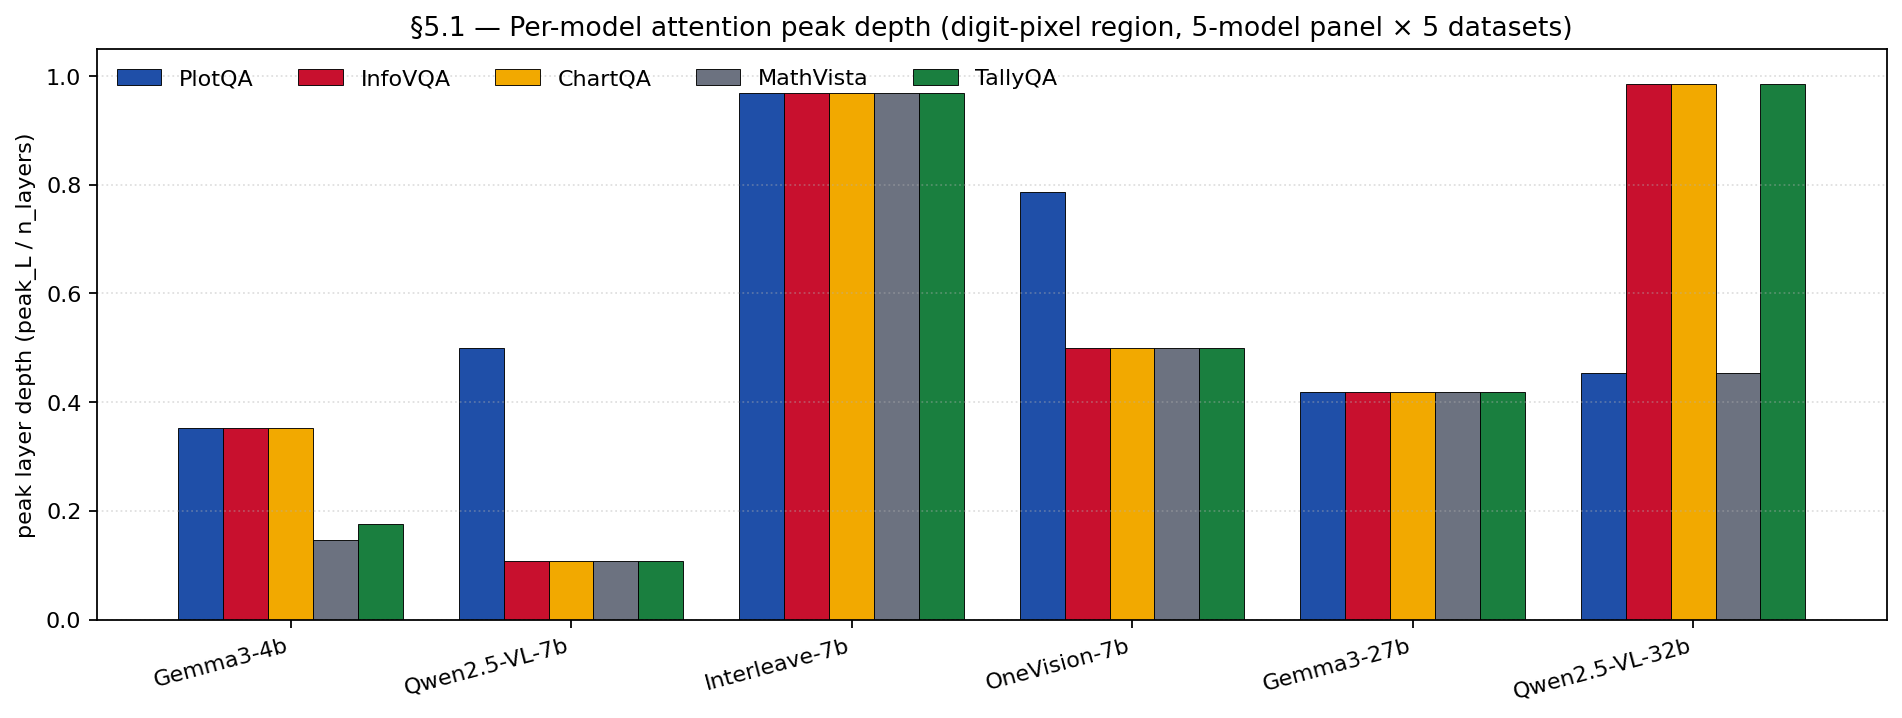
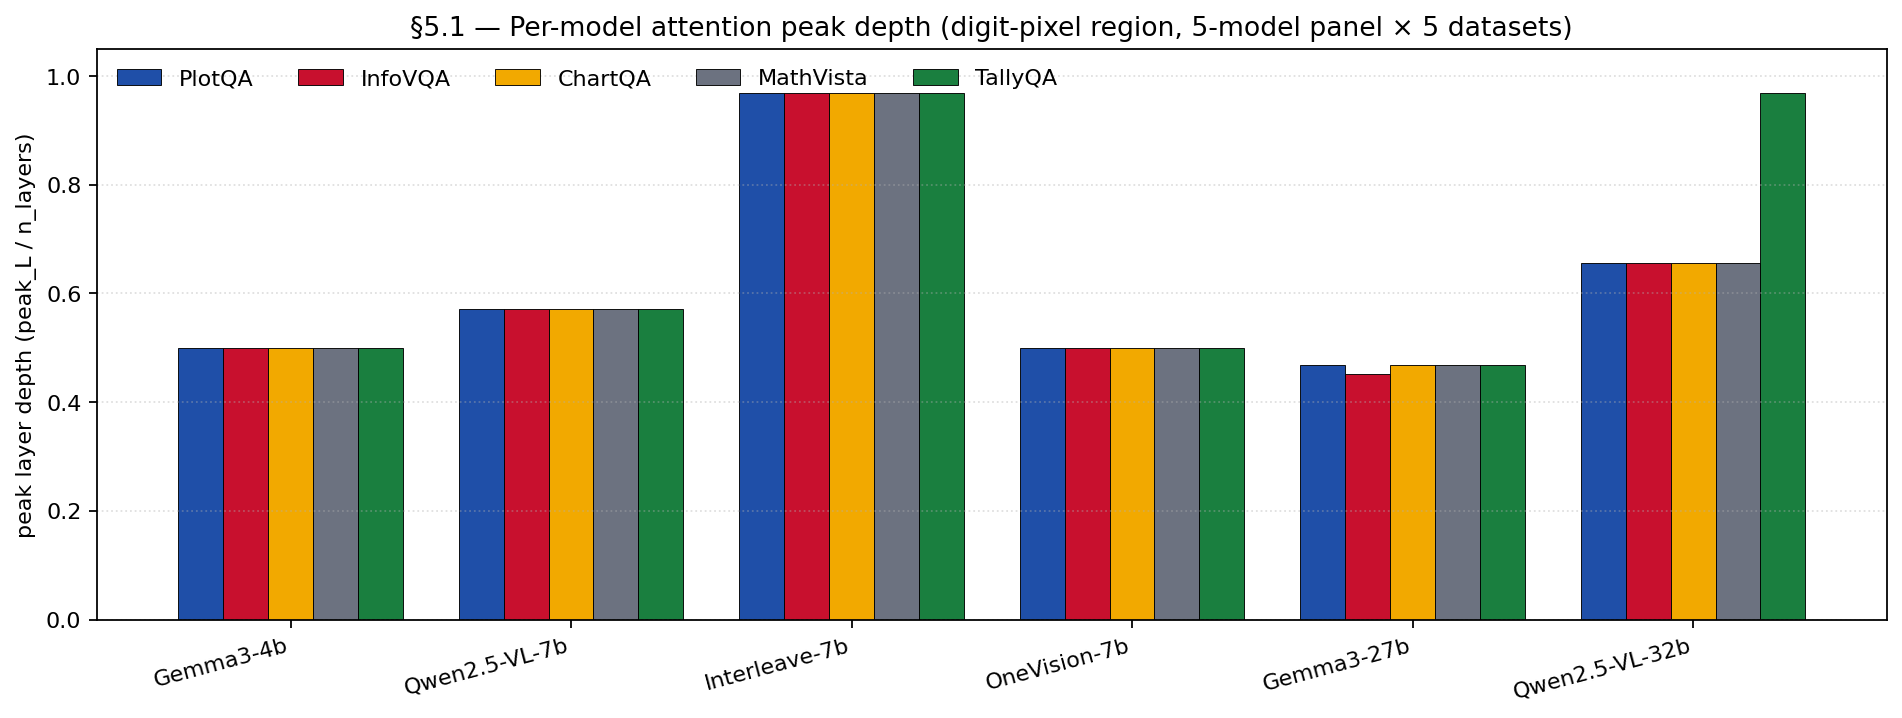
Stage 4b.3 sweep: batch=1 + L={14,16,20,26}
SWEEP_BATCH_SIZE: 16 → 1. Batched generate on OneVision AnyRes shows
bf16 boundary drift (~6 % parsed_number mismatch in PR #56 §5.2
reproduction smoke; 93.91 % match against single-sample ground truth).
batch=1 + prefetch-workers=16 is the canonical paper-reproducible
setup per [[batched-generate-onevision-anyres]] memory. No throughput
penalty (B=1 2.3 r/s/shard ≈ B=16 2.4 r/s/shard); AnyRes per-sample
padding waste cancels the batching kernel-fusion gain.

PILOT_LAYERS + SWEEP_LAYERS_5D: [14, 20, 22, 26] → [14, 16, 20, 26].
Reflects H1 §5.1 attention peaks: OneVision Main = L=14, qwen2.5-vl-7b
= L=16. L=20, 26 retained per user spec (covers later-stack peak for
gemma3-27b at L=29 nearby + the legacy chosen-cell anchor at L=26).
L=22 dropped (not aligned with any model's peak in the H1 sweep panel).

Changed region(s): [[0.0931, 0.429, 0.3722, 0.7967], [0.6824, 0.0919, 0.9616, 0.5515], [0.5273, 0.2451, 0.5584, 0.4903]]

diff --git a/scripts/_build_paper_section_5_notebooks.py b/scripts/_build_paper_section_5_notebooks.py
@@ -583,7 +583,7 @@ improvement). The 5-dataset sweep adds 5 datasets × 4 layers at K=8 +
 ONEVISION    = "llava-onevision-qwen2-7b-ov"
 ONEVISION_HF = "llava-hf/llava-onevision-qwen2-7b-ov-hf"
 
-PILOT_LAYERS = [14, 20, 22, 26]
+PILOT_LAYERS = [14, 16, 20, 26]  # H1 §5.1 peak: OneVision=14 (Main), qwen2.5-7b=16; 20/26 retained per user spec
 PILOT_ALPHAS = [0.5, 1.0, 2.0]
 PILOT_KS     = [1, 2, 4, 8]
 
@@ -595,7 +595,7 @@ CALIB_MAX_PAIRS   = 2500
 # cells). B=1 falls back to the legacy per-sample path. Prefetch workers
 # parallelise PIL.Image.open across the batch and pipeline the next chunk
 # while the current chunk runs on GPU.
-SWEEP_BATCH_SIZE     = 16
+SWEEP_BATCH_SIZE     = 1   # batched generate causes bf16 drift on OneVision AnyRes — see [[batched-generate-onevision-anyres]]
 SWEEP_PREFETCH_WORKERS = 16
 
 SWEEP_DATASETS_5D = [
@@ -605,7 +605,7 @@ SWEEP_DATASETS_5D = [
     ("chartqa",   "experiment_e5e_chartqa_full"),
     ("mathvista", "experiment_e5e_mathvista_full"),
 ]
-SWEEP_LAYERS_5D = [14, 20, 22, 26]
+SWEEP_LAYERS_5D = [14, 16, 20, 26]
 SWEEP_KS_5D     = [8, 1]   # K=8 sweep + K=1 fallback at L=26
 SWEEP_ALPHA_5D  = 1.0
 """),